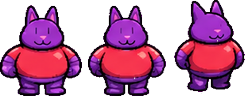
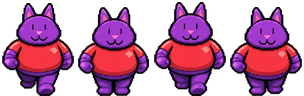
4-frame walk_down/walk_up for Big Jim, Coldy, Mer, Coco, Merry (c5_07 #3, 5 renders)
Claude-Session: https://claude.ai/code/session_013g54opDJbSzBZ1hF4NWyGa

diff --git a/tools/slice_c5_p4.py b/tools/slice_c5_p4.py
@@ -605,7 +605,48 @@ def marks():
     print("marks: %d portraits" % n)
 
 
-STEPS = {"vicval": vicval, "crew": crew, "slivers": slivers, "tools": tools, "redraw": redraw, "thugs": thugs, "nova": nova, "marks": marks}
+# ---- c5_07 #3: 4-frame walk_down / walk_up for the 12B companions (their
+# walk_down was the idle copied, walk_up 2 frames). Sheets p4_walk_<id>.png.
+WALK12 = ["big_jim", "coldy", "mer", "coco", "merry"]
+
+
+def walks12():
+    man = json.load(open(MAN))
+    done = []
+    for cid in WALK12:
+        rel = "c5/p4_walk_%s.png" % cid
+        if not os.path.exists(os.path.join(INC, rel)):
+            continue
+        g = "characters/" + cid
+        a = _load_sheet(rel)
+        rows = _figs(a, 2, merge=14)
+        if len(rows) < 2 or any(len(r) < 4 for r in rows):
+            print("walks12: %s rows %s, skipped" % (cid, [len(r) for r in rows]))
+            continue
+        info = man[g]["idle_down"]
+        keep = os.path.join(ORIG, info["file"])
+        if not os.path.exists(keep):
+            os.makedirs(os.path.dirname(keep), exist_ok=True)
+            shutil.copyfile(os.path.join(GEN, info["file"]), keep)
+        im0 = Image.open(keep).convert("RGBA")
+        cw = int(info["cell_w"])
+        ref = _used_h(im0.crop((0, 0, cw, im0.height)))
+        f = ref / float(np.median([b[3] - b[1] for b in rows[0]]))
+        for name, r in (("walk_down", rows[0]), ("walk_up", rows[1])):
+            fr = []
+            for b in r[:4]:
+                im = Image.fromarray(a[b[1]:b[3], b[0]:b[2]])
+                im = im.resize((max(1, round(im.width * f)), max(1, round(im.height * f))), Image.LANCZOS)
+                pad = Image.new("RGBA", (im.width + 4, im.height), (0, 0, 0, 0))
+                pad.alpha_composite(im, (2, 0))
+                fr.append(pad)
+            _save_strip(fr, g, name, man, int(info["cell_h"]))
+        done.append(cid)
+    _write_dump(man)
+    print("walks12: %s" % ", ".join(done))
+
+
+STEPS = {"vicval": vicval, "crew": crew, "slivers": slivers, "tools": tools, "redraw": redraw, "thugs": thugs, "nova": nova, "marks": marks, "walks12": walks12}
 
 if __name__ == "__main__":
     for s in (sys.argv[1:] or list(STEPS)):
